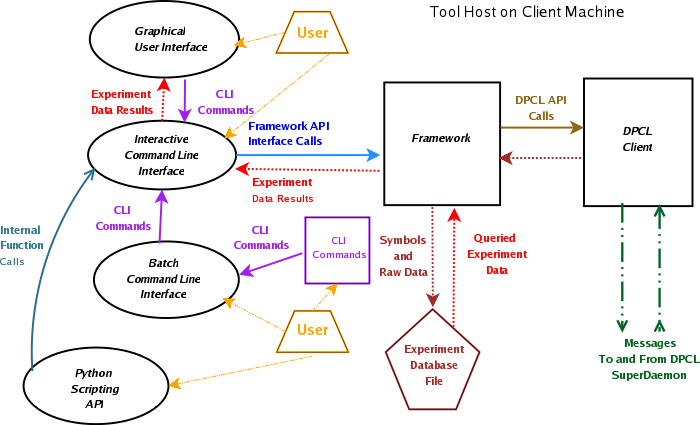
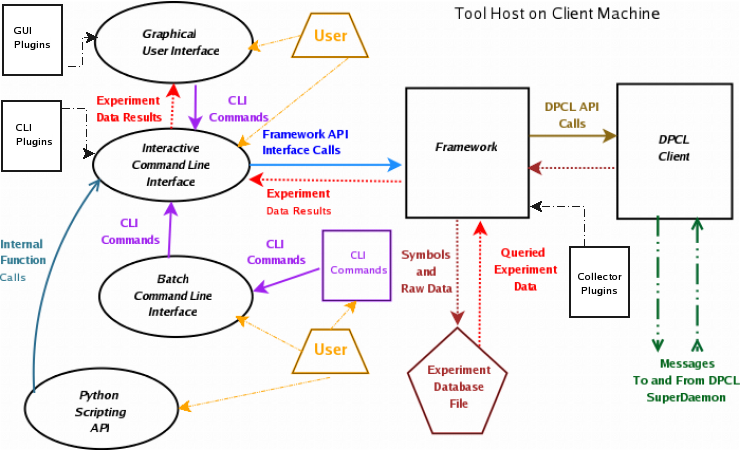
update diagram client overview

diff --git a/doc/plugin_guide/index.html b/doc/plugin_guide/index.html
@@ -429,7 +429,7 @@ Experiment Database file. <br>
 <br>
 <br>
 <img alt="Open|SpeedShop Client Overview"
- title="Open|SpeedShop Client Overview" src="ToolClientOverView2.png"
+ title="Open|SpeedShop Client Overview" src="ToolClientOverView.png"
  style="width: 741px; height: 450px;"><br>
 <h4><a class="mozTocH4" name="mozTocId377936"></a>Runtime/Server
 Component Diagram</h4>
